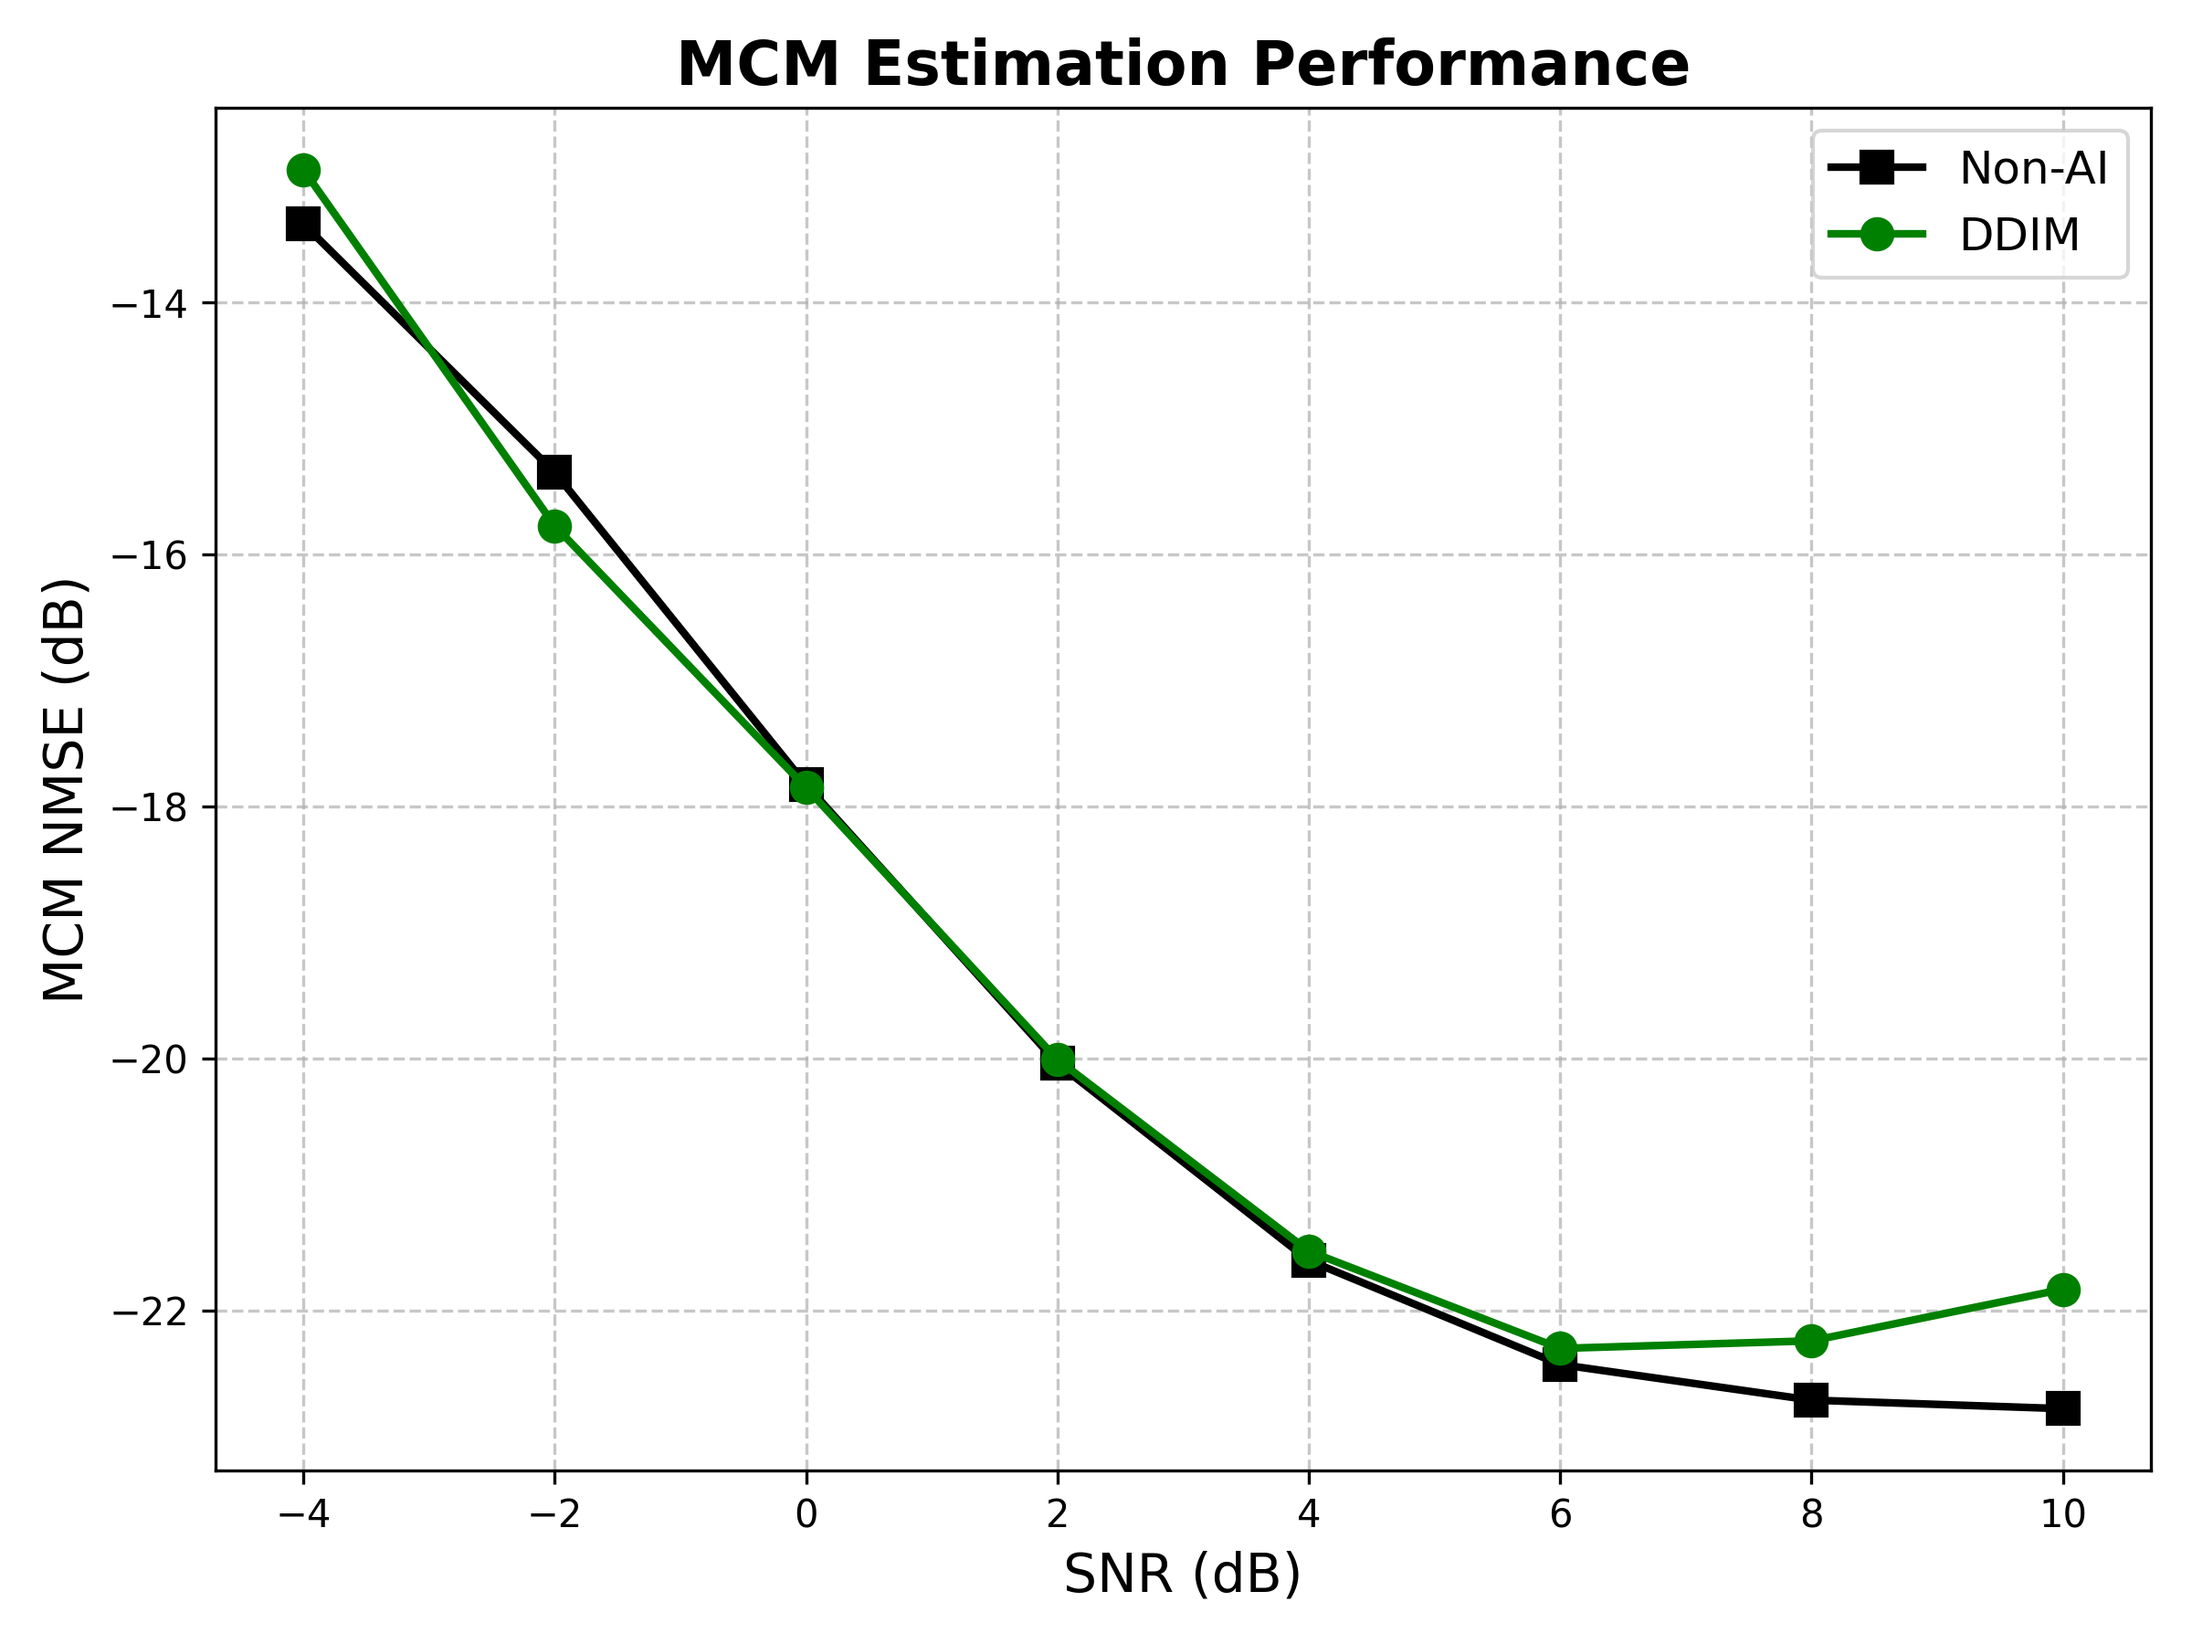
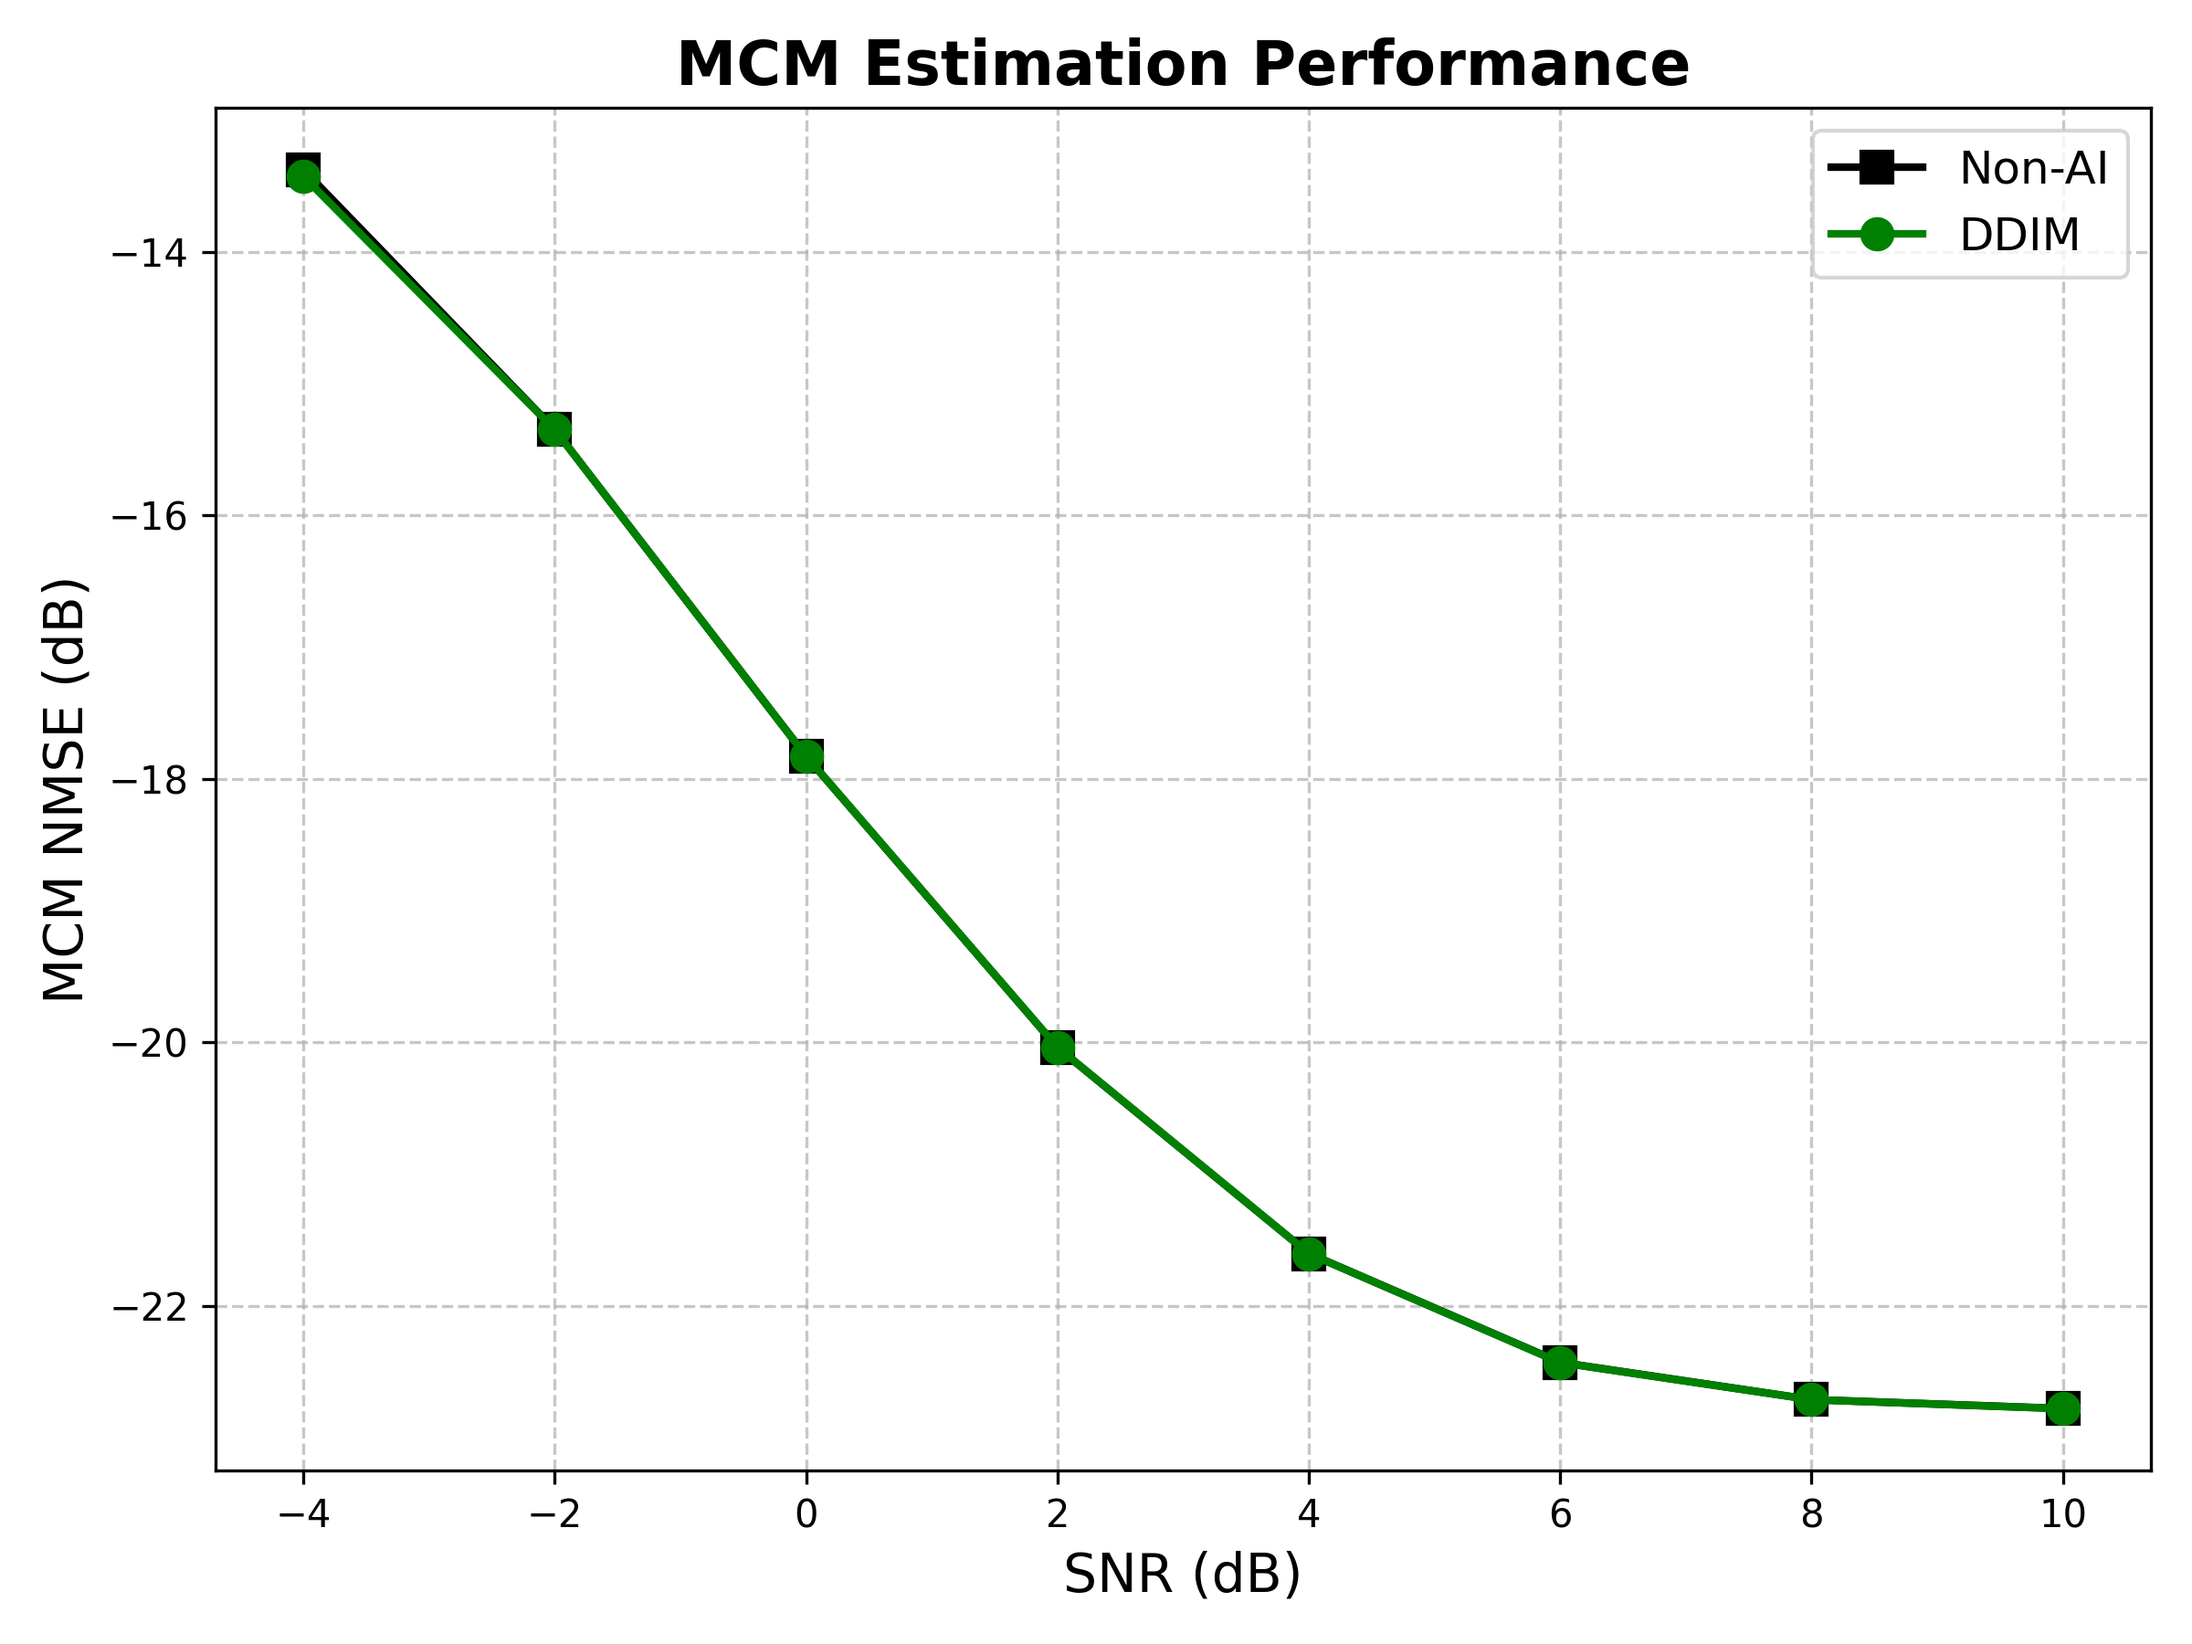
TEST: try nmlz t (mlp), max(sigma, 1) and lambda = 1 -> GET the same result as non-AI

diff --git a/sim2/DDIM/main.py b/sim2/DDIM/main.py
@@ -41,17 +41,16 @@ BETA_MIN=1e-4
 BETA_MAX=0.02
 T_DIFFUSION=1000.0
 NUM_SAMPLING_STEPS=50
-GUIDANCE_LAMBDA=0.4
+GUIDANCE_LAMBDA=1
 
 # testing settings
-MODEL_WEIGHT_FILE_NAME = "DDIM_ep50_lr1e-03_t1000_bmax2e-02_nmlz.pth"
+MODEL_WEIGHT_FILE_NAME = f"DDIM_ep{NUM_EPOCHS}_lr{LR:.0e}_t{int(T_DIFFUSION)}_bmax{BETA_MAX:.0e}.pth"
 NMSE_RESULT_FILE_NAME = f"NMSE_{MODEL_WEIGHT_FILE_NAME.split('.')[0]}.mat"
 
 # -----------------------------
 
 device = torch.device(f'cuda:{CUDA}' if torch.cuda.is_available() else 'cpu')
 script_dir = os.path.dirname(os.path.abspath(__file__))
-SIM_WEIGHT_PATH = os.path.join(script_dir, "..", "..", "sim")
 torch.manual_seed(0)
 
 # -----------------------------
@@ -93,7 +92,7 @@ elif MODE == 'test':
                                                 device, script_dir, use_toeplitz=True)
 
     print(f'[Info] Loading model...')
-    eps_net = load_trained_model(SIM_WEIGHT_PATH, device, N, MODEL_TYPE, MODEL_WEIGHT_FILE_NAME)
+    eps_net = load_trained_model(script_dir, device, N, MODEL_TYPE, MODEL_WEIGHT_FILE_NAME)
 
     theta_nmse_results = []
     M_nmse_results = []

diff --git a/sim2/DDIM/diffusion/ddim_sampler_parallel.py b/sim2/DDIM/diffusion/ddim_sampler_parallel.py
@@ -38,7 +38,7 @@ def ddim_epsnet_guided_sampler_batch(y_obs_complex, eps_net, snr,
             x0_hat = (x_t - sqrt_1m_a_cur * eps_pred) / (sqrt_a_cur + 1e-12)
 
             # guidance in x0 domain using observed y
-            grad_x0 = (y_real - x0_hat) / max(sigma_y2 + 1e-8, 0.1)
+            grad_x0 = (y_real - x0_hat) / max(sigma_y2 + 1e-8, 1)
             x0_hat_guided = x0_hat + guidance_lambda * grad_x0
 
             # compute eps_guided
